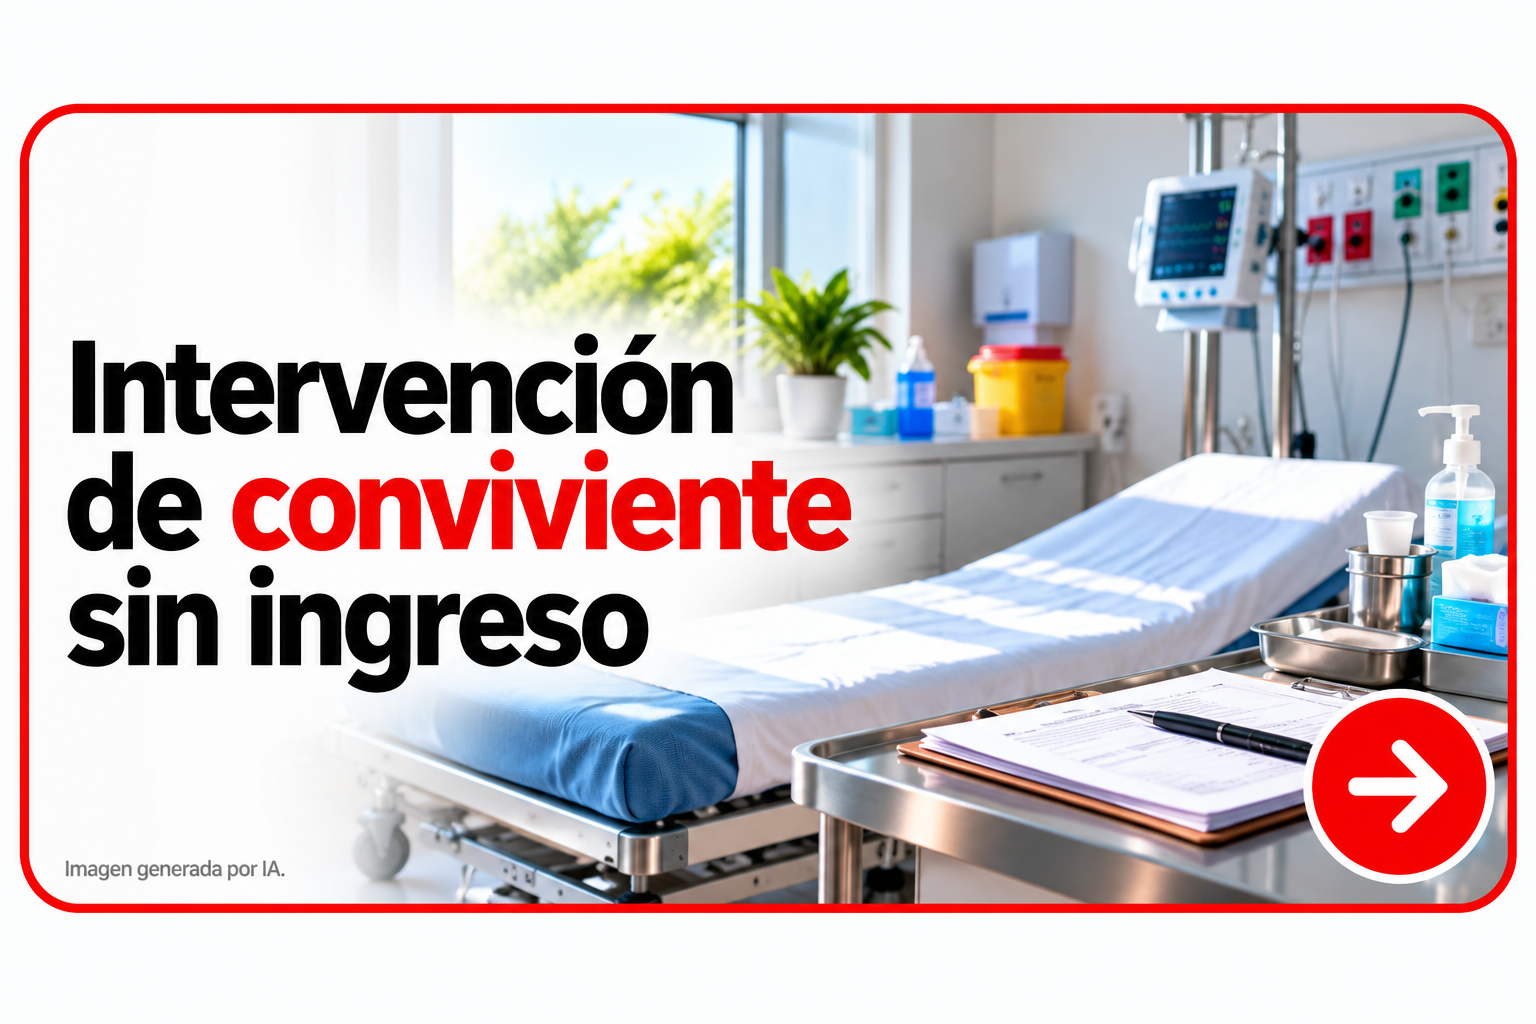
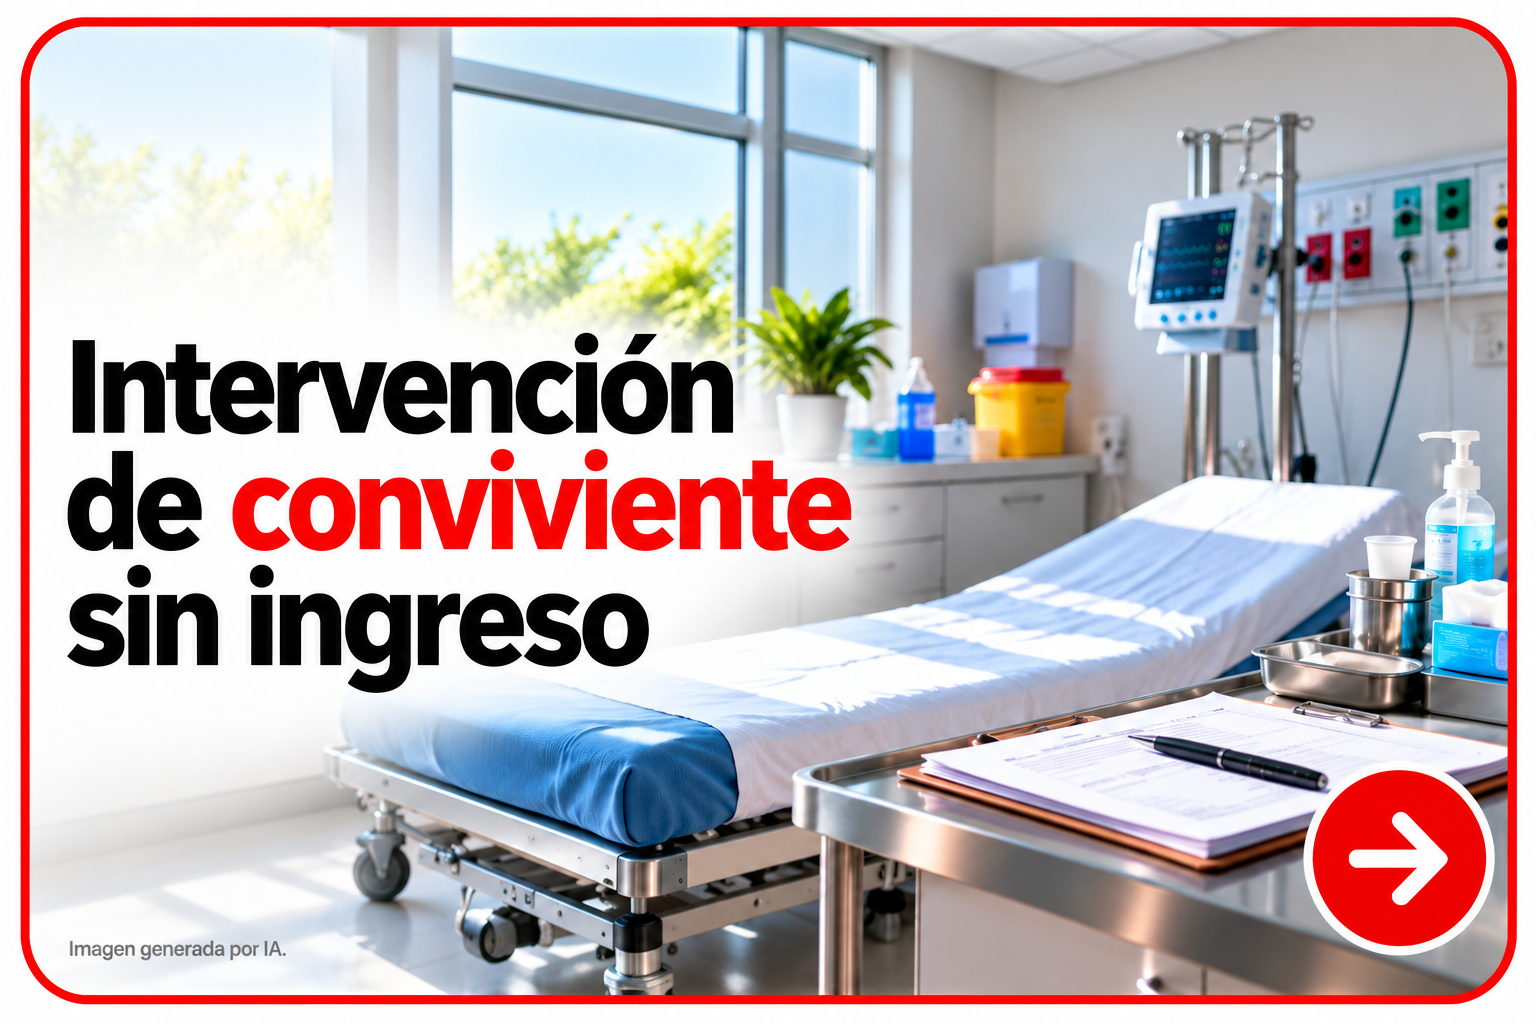
Fix conviviente card background and preserve its full border

diff --git a/permisos.html b/permisos.html
@@ -81,6 +81,9 @@
       display: block;
       object-fit: cover;
     }
+    .image-card[href="intervencion-conviviente-sin-ingreso.html"] {
+      border-radius: 5% / 7.5%;
+    }
     .permit-card {
       padding: 14px;
       display: flex;
